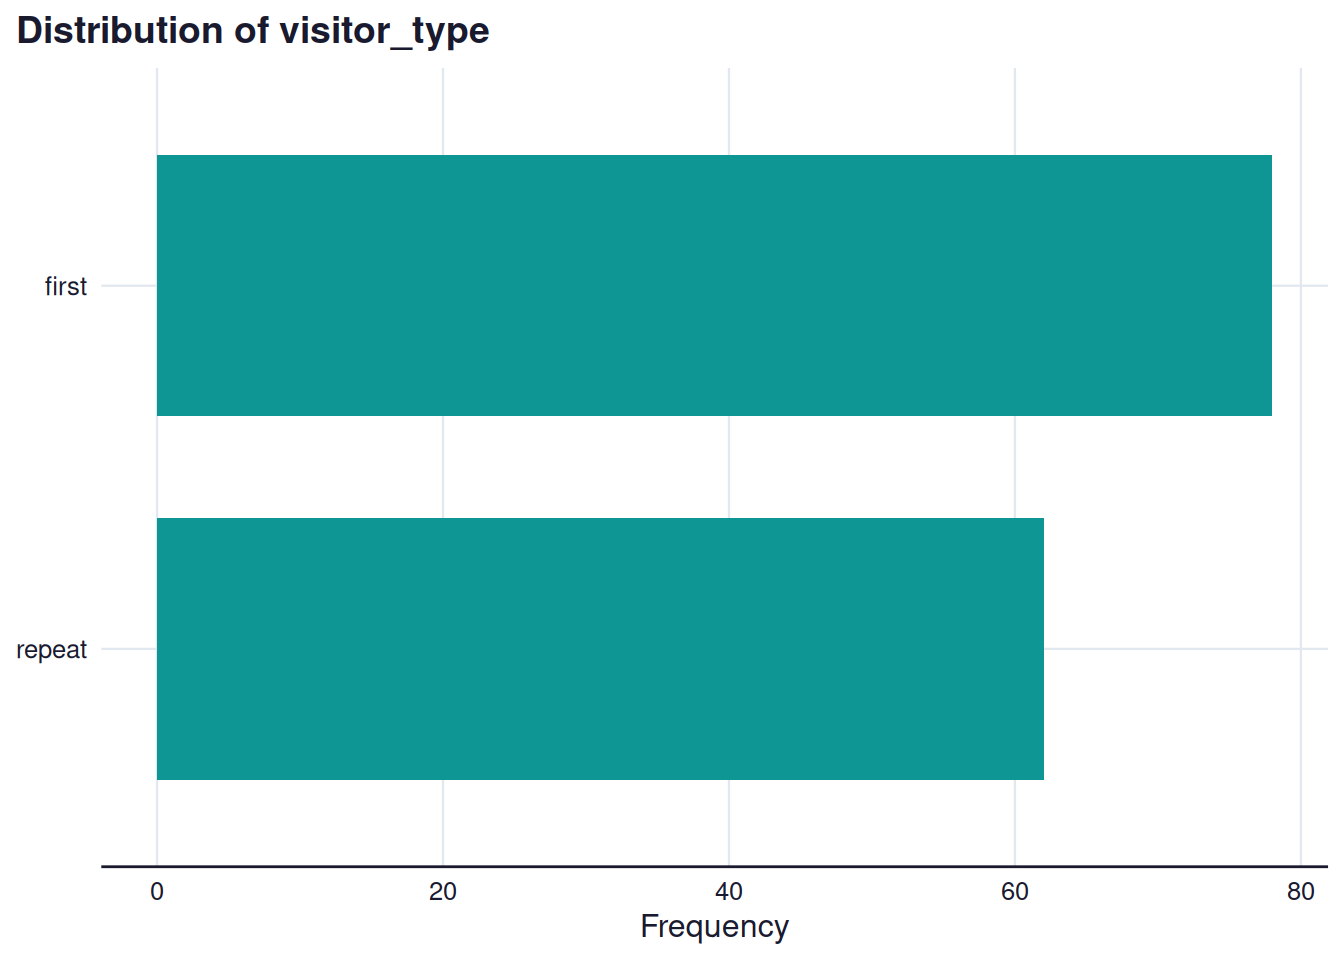
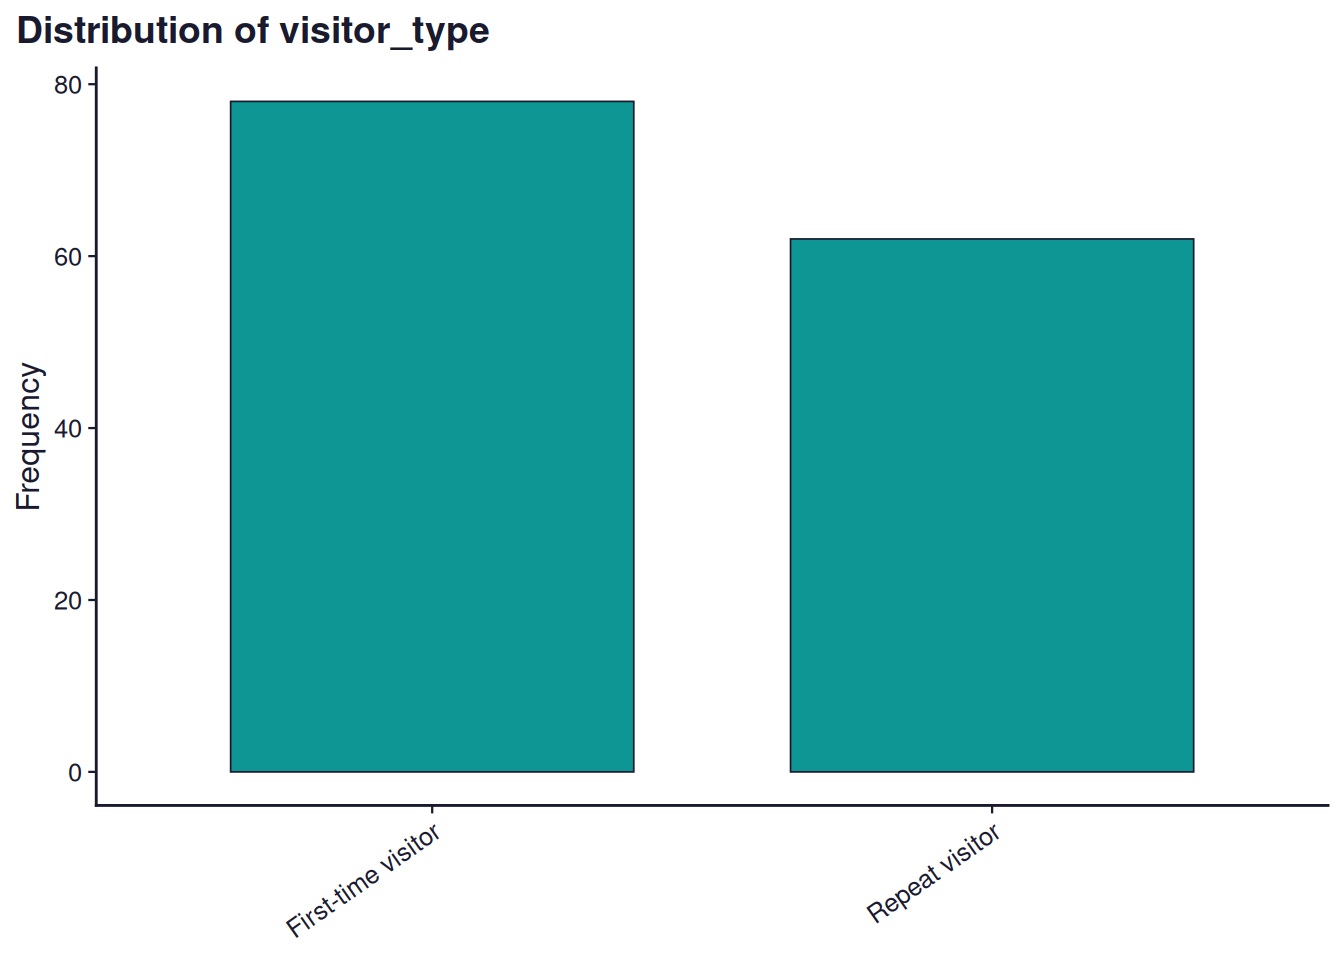
Add downloadable sample response CSVs to posts 09 and 11

diff --git a/blog/posts/09-surveyframe-single-choice.html b/blog/posts/09-surveyframe-single-choice.html
@@ -912,7 +912,7 @@ pre,code,pre code{white-space:pre-wrap;word-break:break-word;}
 </section>
 <section id="run-the-plan-against-responses" class="level2">
 <h2 class="anchored" data-anchor-id="run-the-plan-against-responses">Run the plan against responses</h2>
-<p>In your own project this is <code>read_responses()</code> reading a CSV or Google Sheet. Here it is 140 rows of synthetic data standing in for real ones, generated once with a fixed seed so this page renders the same result every time.</p>
+<p>In your own project this is <code>read_responses()</code> reading a CSV or Google Sheet. Here it is 140 rows of synthetic data standing in for real ones, generated once with a fixed seed so this page renders the same result every time. The exact file is downloadable as <a href="../../assets/data/blog/09-single-choice-responses.csv">09-single-choice-responses.csv</a>, if you would rather point <code>read_responses()</code> at a real file than regenerate it.</p>
 <div class="cell">
 <div class="code-copy-outer-scaffold"><div class="sourceCode cell-code" id="cb5"><pre class="sourceCode r code-with-copy"><code class="sourceCode r"><span id="cb5-1"><a href="#cb5-1" aria-hidden="true" tabindex="-1"></a><span class="fu">set.seed</span>(<span class="dv">42</span>)</span>
 <span id="cb5-2"><a href="#cb5-2" aria-hidden="true" tabindex="-1"></a>n <span class="ot">&lt;-</span> <span class="dv">140</span></span>
@@ -938,12 +938,12 @@ pre,code,pre code{white-space:pre-wrap;word-break:break-word;}
 </thead>
 <tbody>
 <tr class="odd">
-<td style="text-align: left;">first</td>
+<td style="text-align: left;">First-time visitor</td>
 <td style="text-align: right;">78</td>
 <td style="text-align: right;">55.7</td>
 </tr>
 <tr class="even">
-<td style="text-align: left;">repeat</td>
+<td style="text-align: left;">Repeat visitor</td>
 <td style="text-align: right;">62</td>
 <td style="text-align: right;">44.3</td>
 </tr>
@@ -1702,7 +1702,7 @@ pre,code,pre code{white-space:pre-wrap;word-break:break-word;}
 <span id="cb7-254"><a href="#cb7-254" aria-hidden="true" tabindex="-1"></a></span>
 <span id="cb7-255"><a href="#cb7-255" aria-hidden="true" tabindex="-1"></a><span class="fu">## Run the plan against responses</span></span>
 <span id="cb7-256"><a href="#cb7-256" aria-hidden="true" tabindex="-1"></a></span>
-<span id="cb7-257"><a href="#cb7-257" aria-hidden="true" tabindex="-1"></a>In your own project this is <span class="in">`read_responses()`</span> reading a CSV or Google Sheet. Here it is 140 rows of synthetic data standing in for real ones, generated once with a fixed seed so this page renders the same result every time.</span>
+<span id="cb7-257"><a href="#cb7-257" aria-hidden="true" tabindex="-1"></a>In your own project this is <span class="in">`read_responses()`</span> reading a CSV or Google Sheet. Here it is 140 rows of synthetic data standing in for real ones, generated once with a fixed seed so this page renders the same result every time. The exact file is downloadable as <span class="co">[</span><span class="ot">09-single-choice-responses.csv</span><span class="co">](/assets/data/blog/09-single-choice-responses.csv)</span>, if you would rather point <span class="in">`read_responses()`</span> at a real file than regenerate it.</span>
 <span id="cb7-258"><a href="#cb7-258" aria-hidden="true" tabindex="-1"></a></span>
 <span id="cb7-261"><a href="#cb7-261" aria-hidden="true" tabindex="-1"></a><span class="in">```{r}</span></span>
 <span id="cb7-262"><a href="#cb7-262" aria-hidden="true" tabindex="-1"></a><span class="co">#| label: responses</span></span>

diff --git a/blog/posts/11-surveyframe-multiple-choice.html b/blog/posts/11-surveyframe-multiple-choice.html
@@ -930,7 +930,7 @@ pre,code,pre code{white-space:pre-wrap;word-break:break-word;}
 </section>
 <section id="run-the-plan-against-responses" class="level2">
 <h2 class="anchored" data-anchor-id="run-the-plan-against-responses">Run the plan against responses</h2>
-<p>In your own project this is <code>read_responses()</code> reading a CSV or Google Sheet, with one logical column per checkbox option. Here it is 140 rows of synthetic data, generated once with a fixed seed so this page renders the same result every time.</p>
+<p>In your own project this is <code>read_responses()</code> reading a CSV or Google Sheet, with one logical column per checkbox option. Here it is 140 rows of synthetic data, generated once with a fixed seed so this page renders the same result every time. The exact file is downloadable as <a href="../../assets/data/blog/11-multiple-choice-responses.csv">11-multiple-choice-responses.csv</a>, if you would rather point <code>read_responses()</code> at a real file than regenerate it.</p>
 <div class="cell">
 <div class="code-copy-outer-scaffold"><div class="sourceCode cell-code" id="cb5"><pre class="sourceCode r code-with-copy"><code class="sourceCode r"><span id="cb5-1"><a href="#cb5-1" aria-hidden="true" tabindex="-1"></a><span class="fu">set.seed</span>(<span class="dv">42</span>)</span>
 <span id="cb5-2"><a href="#cb5-2" aria-hidden="true" tabindex="-1"></a>n <span class="ot">&lt;-</span> <span class="dv">140</span></span>
@@ -1756,7 +1756,7 @@ pre,code,pre code{white-space:pre-wrap;word-break:break-word;}
 <span id="cb8-256"><a href="#cb8-256" aria-hidden="true" tabindex="-1"></a></span>
 <span id="cb8-257"><a href="#cb8-257" aria-hidden="true" tabindex="-1"></a><span class="fu">## Run the plan against responses</span></span>
 <span id="cb8-258"><a href="#cb8-258" aria-hidden="true" tabindex="-1"></a></span>
-<span id="cb8-259"><a href="#cb8-259" aria-hidden="true" tabindex="-1"></a>In your own project this is <span class="in">`read_responses()`</span> reading a CSV or Google Sheet, with one logical column per checkbox option. Here it is 140 rows of synthetic data, generated once with a fixed seed so this page renders the same result every time.</span>
+<span id="cb8-259"><a href="#cb8-259" aria-hidden="true" tabindex="-1"></a>In your own project this is <span class="in">`read_responses()`</span> reading a CSV or Google Sheet, with one logical column per checkbox option. Here it is 140 rows of synthetic data, generated once with a fixed seed so this page renders the same result every time. The exact file is downloadable as <span class="co">[</span><span class="ot">11-multiple-choice-responses.csv</span><span class="co">](/assets/data/blog/11-multiple-choice-responses.csv)</span>, if you would rather point <span class="in">`read_responses()`</span> at a real file than regenerate it.</span>
 <span id="cb8-260"><a href="#cb8-260" aria-hidden="true" tabindex="-1"></a></span>
 <span id="cb8-263"><a href="#cb8-263" aria-hidden="true" tabindex="-1"></a><span class="in">```{r}</span></span>
 <span id="cb8-264"><a href="#cb8-264" aria-hidden="true" tabindex="-1"></a><span class="co">#| label: responses</span></span>

diff --git a/blog/index.html b/blog/index.html
@@ -687,7 +687,7 @@ window.Quarto = {
 
 <div class="quarto-listing quarto-listing-container-default" id="listing-listing">
 <div class="list quarto-listing-default">
[2 lines of base64/hex data omitted]
 <div class="body">
 <h3 class="no-anchor listing-title">
 <a href="../blog/posts/11-surveyframe-multiple-choice.html" class="no-external">surveyframe Field Types: Multiple Choice</a>
@@ -799,7 +799,7 @@ Jul 12, 2026
 </a>
 </div>
 </div>
[2 lines of base64/hex data omitted]
 <div class="body">
 <h3 class="no-anchor listing-title">
 <a href="../blog/posts/09-surveyframe-single-choice.html" class="no-external">surveyframe Field Types: Single Choice</a>
